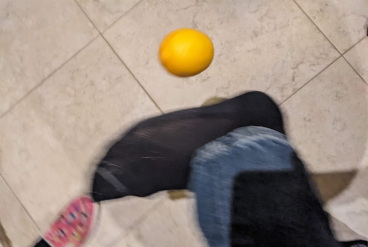
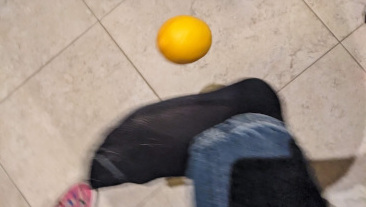
Update photos and tagline

diff --git a/index.html b/index.html
@@ -43,7 +43,7 @@
 				<section id="features">
 					<div class="container">
 						<header>
-							<h2>Lemon-scented fever-dream snake rock</h2>
+							<h2>Lemon-scented Tucson indie pop-rock</h2>
 						</header>
 						<div class="row aln-center">
 							<div class="col-4 col-6-medium col-12-small">
@@ -62,7 +62,7 @@
 
 								<!-- Feature -->
 									<section>
-										<a href="#" class="image featured"><img src="images/IMG_2422.jpg" alt="" /></a>
+										<a href="#" class="image featured"><img src="images/D5A4014D-FF3A-42FB-BF5B-122AE1B4E2D4.jpg" alt="" /></a>
 										<header>
 											<h3>Upcoming Shows</h3>
 										</header>
